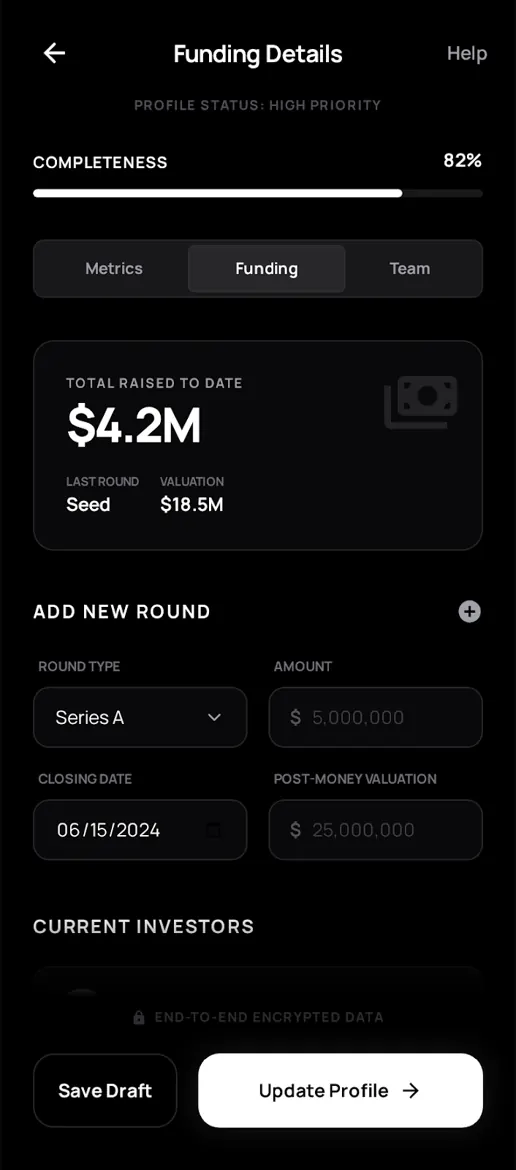
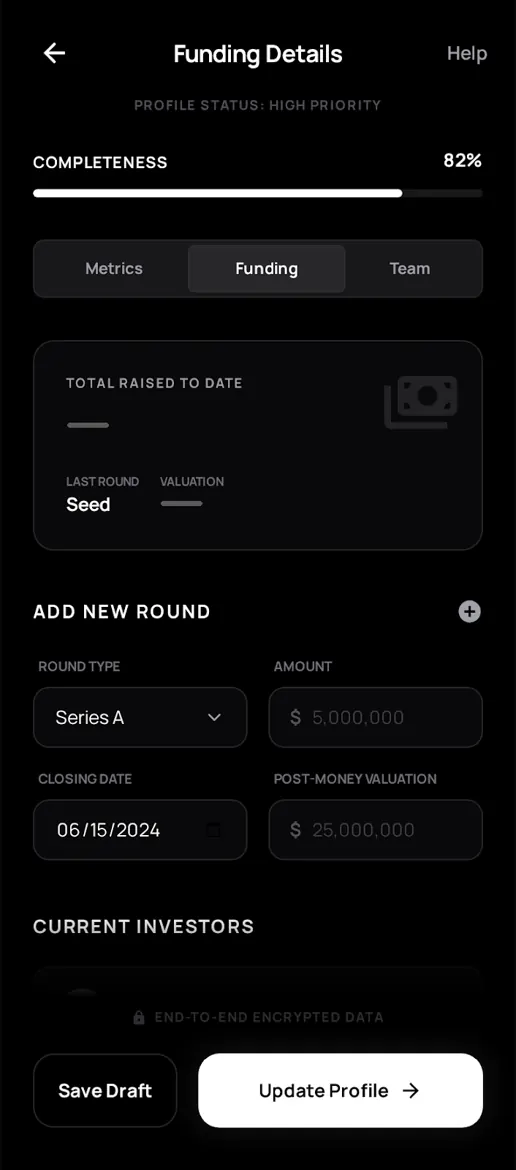
Blank sample MRR/backer/raise/valuation figures in app screens

Changed region(s): [[0.124, 0.3385, 0.4341, 0.4615]]

diff --git a/src/redesign/Landing.tsx b/src/redesign/Landing.tsx
@@ -107,7 +107,7 @@ export default function Landing() {
         <h2 id="h-app">Take a <em>look around.</em></h2>
         <p className="lede">Drag, swipe or use the arrows to flip through screens from the Catalyst app.</p>
         <Showcase screens={SCREENS} />
-        <p className="fine" style={{ textAlign: "center" }}>Illustrative preview of an app in development. Sample profiles and figures, not live offerings.</p>
+        <p className="fine" style={{ textAlign: "center" }}>Illustrative preview of an app in development. Sample profiles, not live offerings.</p>
       </section>
 
       <section aria-labelledby="h-why">
